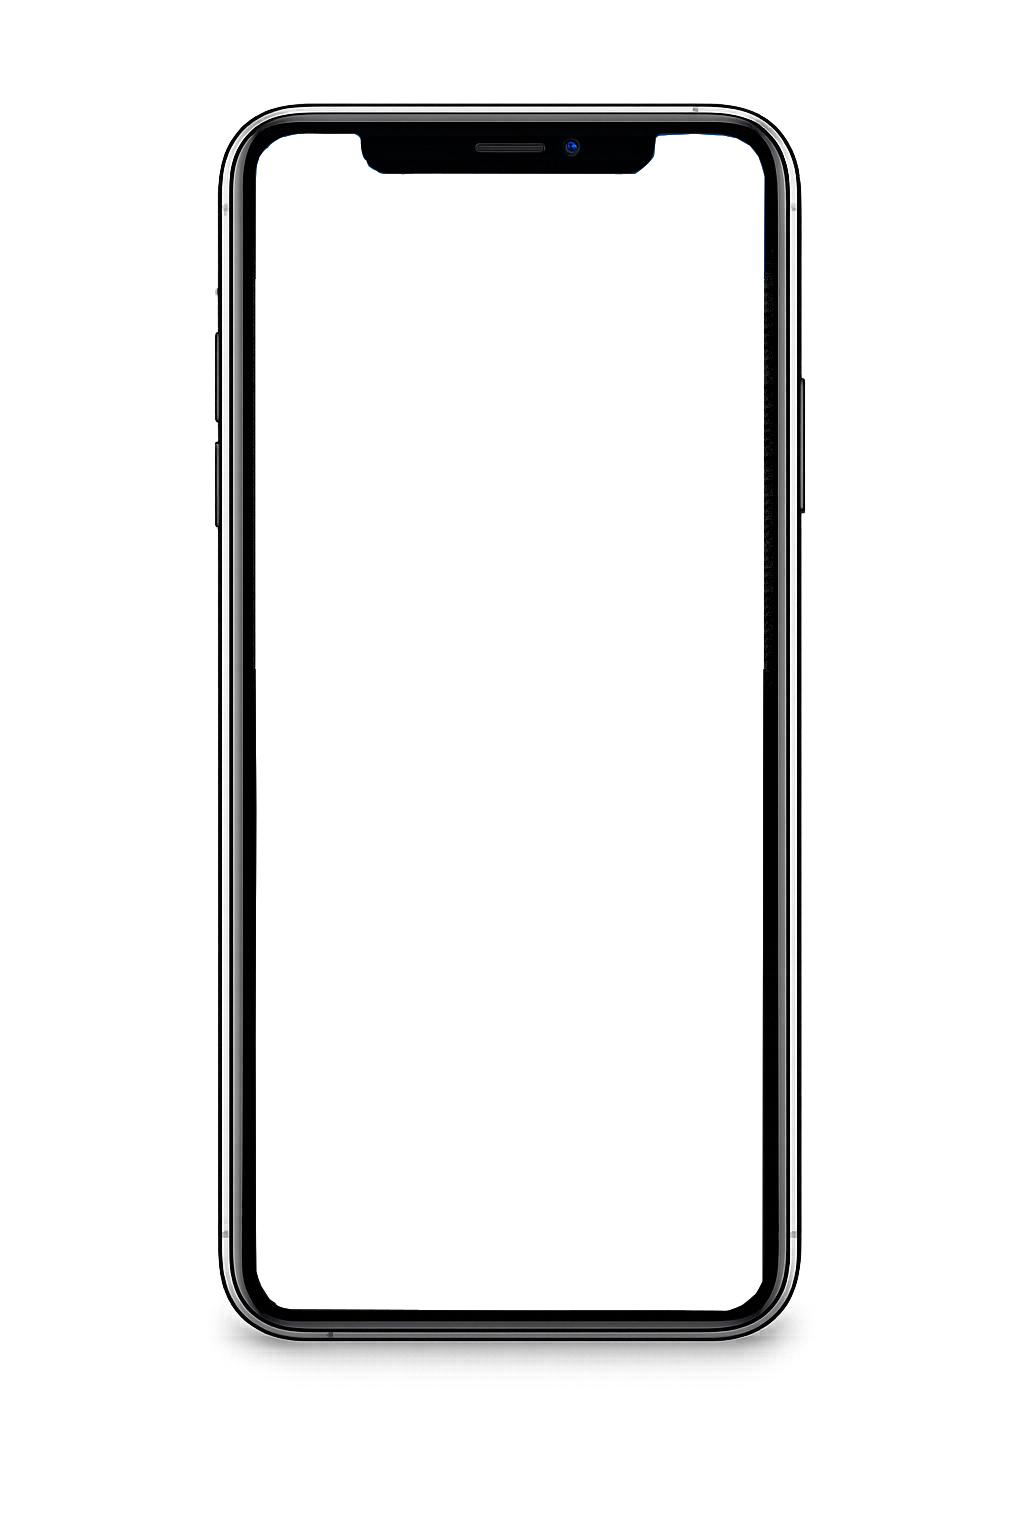
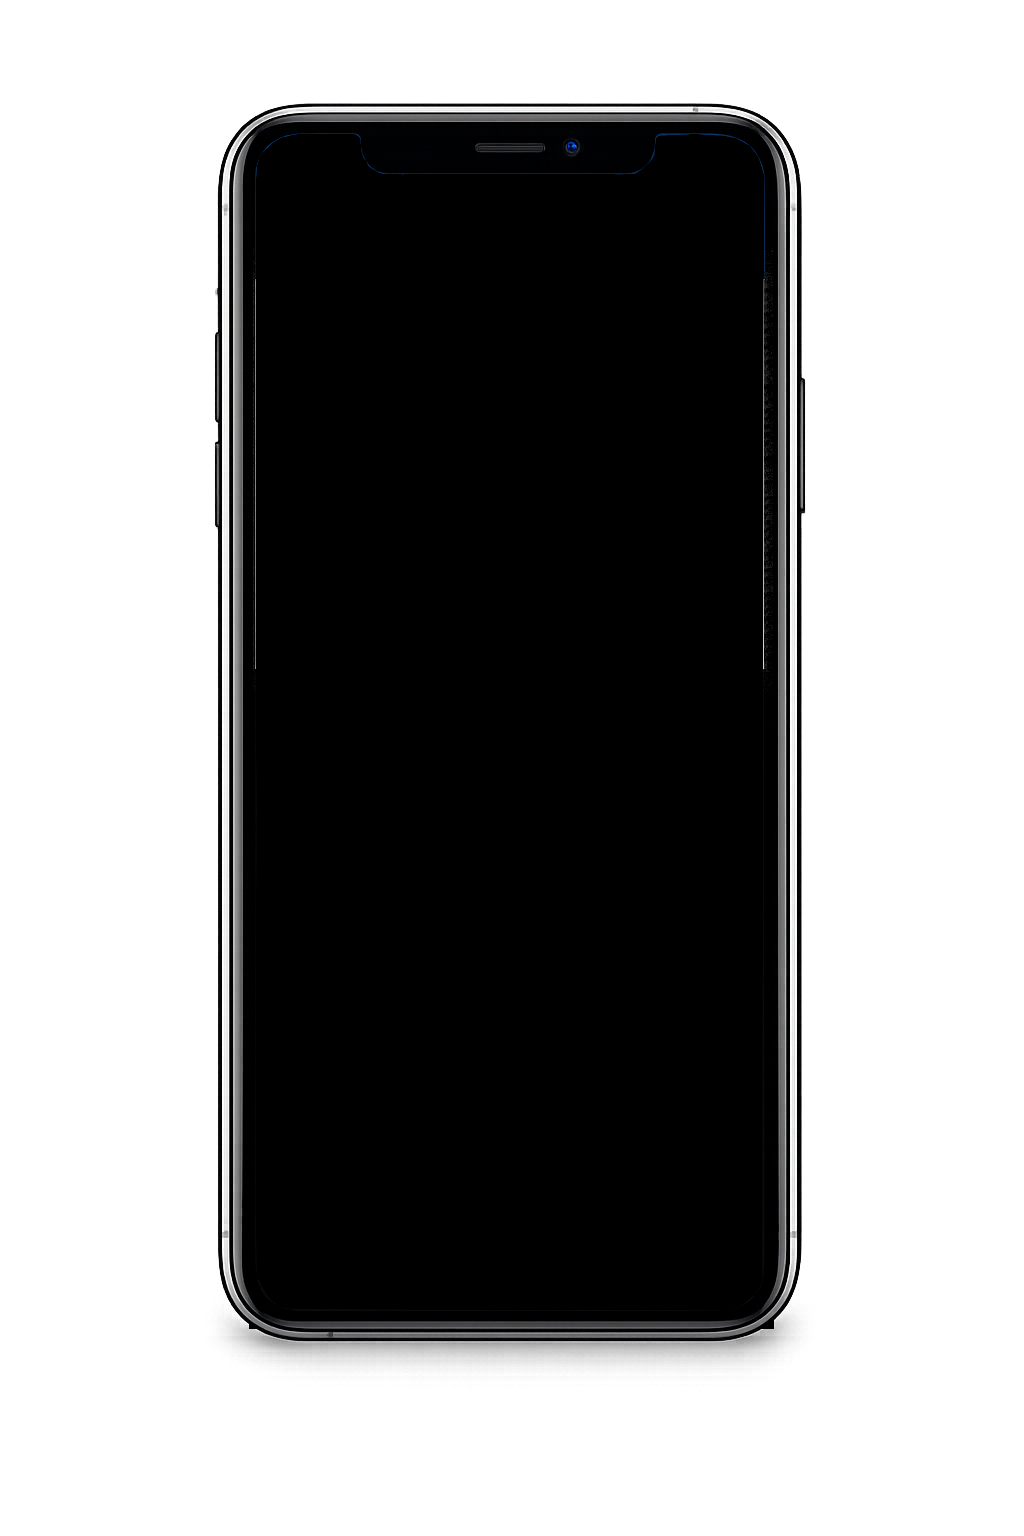
add animations to Reminder and BookingMarketing components

diff --git a/app/components/Reminders.tsx b/app/components/Reminders.tsx
@@ -59,23 +59,39 @@ export default function Reminders() {
           transition={{ duration: 0.6, ease: "easeOut" }}
         >
           <div className="relative w-full max-w-[360px] sm:max-w-[420px] lg:max-w-[520px]">
-            <Image
-              src="/ReminderImageBase.png"
-              alt="Reminder Preview"
-              width={500}
-              height={700}
-              className="h-auto w-full select-none"
-              draggable={false}
-              priority
-            />
-            <Image
-              src="/ReminderImageScreen.png"
-              alt="Reminder Screen"
-              width={400}
-              height={600}
-              className="absolute left-1/2 top-[0%] h-auto w-[100%] -translate-x-1/2 rounded-2xl shadow-2xl"
-              draggable={false}
-            />
+            <motion.div
+              initial={{ opacity: 0, y: 20 }}
+              whileInView={{ opacity: 1, y: 0 }}
+              viewport={{ once: true, amount: 0.6 }}
+              transition={{ duration: 0.5, ease: "easeOut" }}
+            >
+              <Image
+                src="/ReminderImageBase.png"
+                alt="Reminder Preview"
+                width={500}
+                height={700}
+                className="h-auto w-full select-none"
+                draggable={false}
+                priority
+              />
+            </motion.div>
+            <motion.div
+              initial={{ opacity: 0, scale: 0.96, filter: "brightness(0.4)" }}
+              whileInView={{ opacity: 1, scale: 1, filter: "brightness(1)" }}
+              viewport={{ once: true, amount: 0.6 }}
+              transition={{ delay: 0.35, duration: 0.6, ease: "easeOut" }}
+              className="absolute left-1/2 top-0 w-full -translate-x-1/2"
+            >
+              <Image
+                src="/ReminderImageScreen.png"
+                alt="Reminder Screen"
+                width={400}
+                height={600}
+                className="h-auto w-full"
+                draggable={false}
+                priority
+              />
+            </motion.div>
           </div>
         </motion.div>
       </div>

diff --git a/app/components/BookingMarketingComponent.tsx b/app/components/BookingMarketingComponent.tsx
@@ -20,23 +20,37 @@ export default function BookingMarketingComponent() {
           transition={{ duration: 0.6, ease: "easeOut" }}
         >
           <div className="relative w-full max-w-[360px] sm:max-w-[420px] lg:max-w-[520px]">
-            <Image
-              src="/ProviderImageBase.png"
-              alt="Booking Marketing"
-              width={500}
-              height={700}
-              className="h-auto w-full select-none"
-              draggable={false}
-              priority
-            />
-            <motion.div>
+            <motion.div
+              initial={{ opacity: 0, y: 20 }}
+              whileInView={{ opacity: 1, y: 0 }}
+              viewport={{ once: true, amount: 0.6 }}
+              transition={{ duration: 0.5, ease: "easeOut" }}
+            >
+              <Image
+                src="/ProviderImageBase.png"
+                alt="Booking Marketing"
+                width={500}
+                height={700}
+                className="h-auto w-full select-none"
+                draggable={false}
+                priority
+              />
+            </motion.div>
+            <motion.div
+              initial={{ opacity: 0, scale: 0.96, filter: "brightness(0.4)" }}
+              whileInView={{ opacity: 1, scale: 1, filter: "brightness(1)" }}
+              viewport={{ once: true, amount: 0.6 }}
+              transition={{ delay: 0.35, duration: 0.6, ease: "easeOut" }}
+              className="absolute left-1/2 top-0 w-full -translate-x-1/2"
+            >
               <Image
                 src="/ProviderImageScreen.png"
                 alt="Booking Marketing Phone"
                 width={400}
                 height={600}
-                className="absolute left-1/2 top-[0%] h-auto w-[100%] -translate-x-1/2"
+                className="h-auto w-full"
                 draggable={false}
+                priority
               />
             </motion.div>
           </div>
